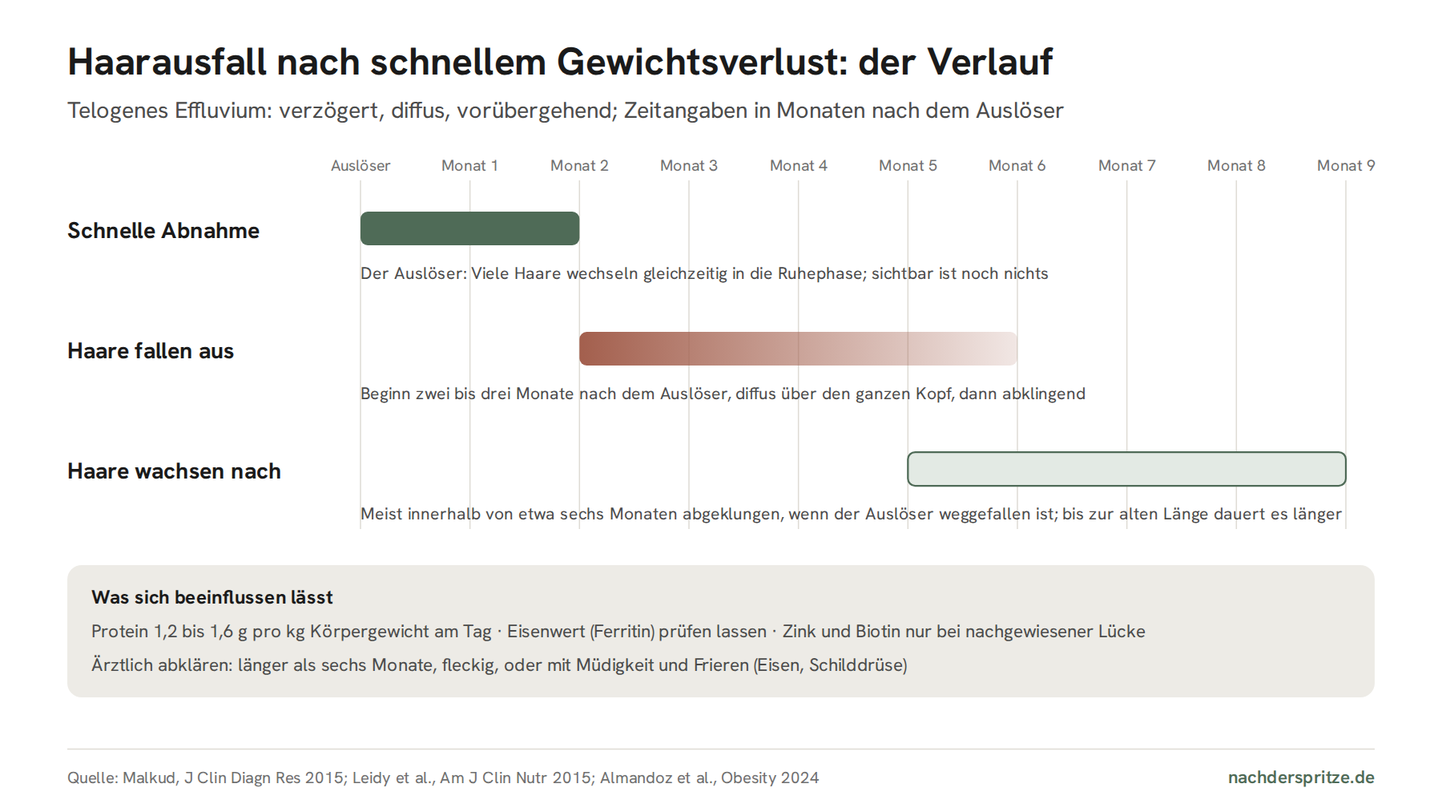
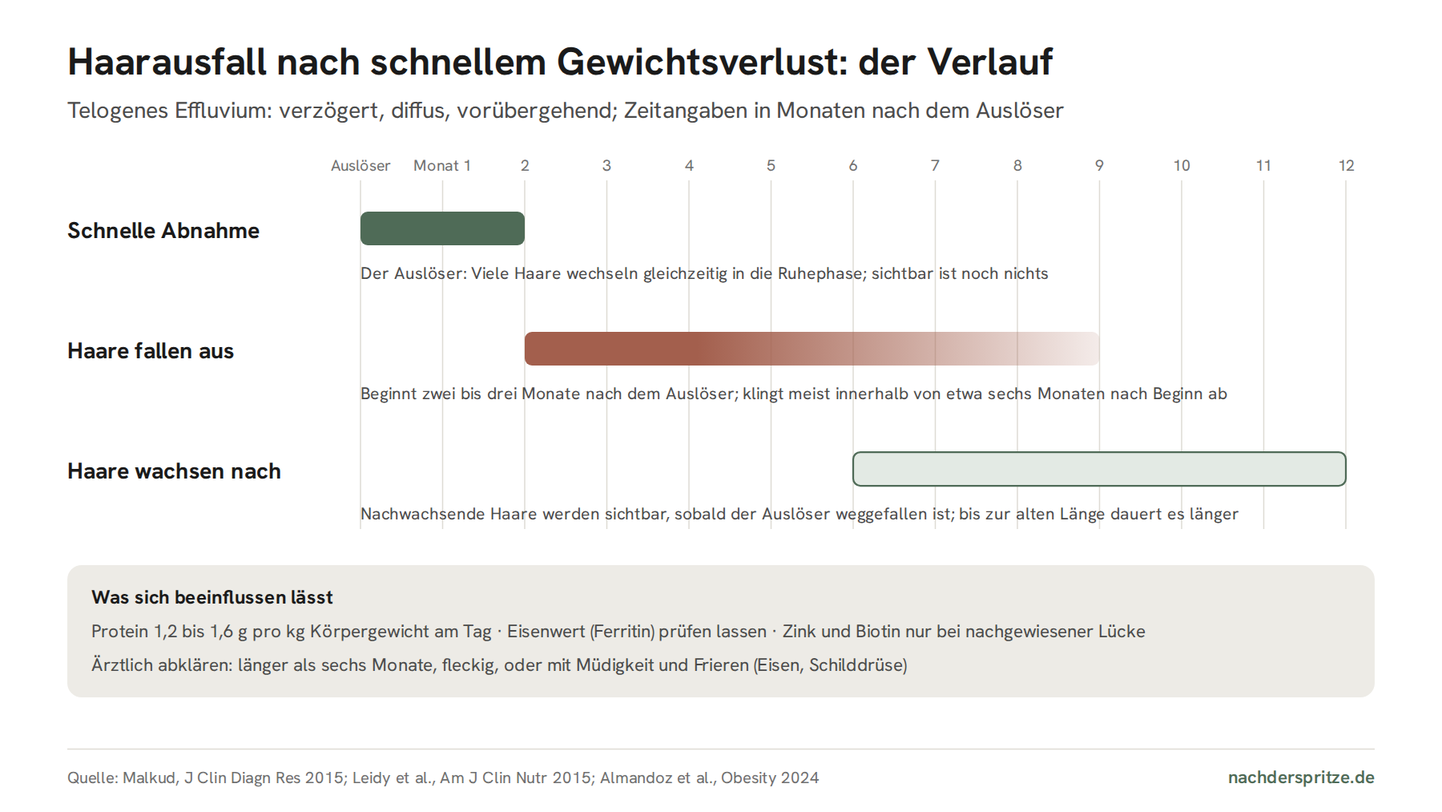
Grafiken: Zweitprüfung eingearbeitet, S-LiTE als Differenz mit Konfidenzintervall, Protein 25–30 g, updatedDate, CLAIMS C33
- S-LiTE: Mehr-Zunahme nach Liraglutid allein als Differenz mit 95-%-KI (6,0 kg, 2,1–10,0; 2,5 kg, −1,5–6,5 nicht signifikant), kein Nullbalken, neutraler Titel
- Halbwertszeiten: Semaglutid weitgehend abgebaut nach etwa 5 Wochen, laut Fachinformation bis etwa 7 Wochen nachweisbar; Dativ „Tagen“
- Warum: Appetitbremse je Wirkstoff, „feste Mahlzeiten“ gestrichen, Krafttraining und Protein mit Jensen 2024, Sardeli 2018, Leidy 2015
- Körperzusammensetzung: kein Muskel-Übertrag, Sardeli 2018 und WHO 2020 als Quelle
- Protein: „mindestens etwa 25 bis 30 g pro Mahlzeit“ laut Leidy 2015, auch in Protein-, Ernährungs-, Muskelabbau- und Jojo-Artikel
- Haarausfall: zwölf Monate, Abklingen innerhalb von etwa sechs Monaten nach Beginn wie im Artikel
- Abnehmpille: Minuszeichen an den OASIS-4-Säulen, „Noch keine Studie“, Wu 2025 als Studien zu Adipositas-Medikamenten
- Zeitachse: Kontrolltermin ohne „Empfehlung im Artikel“
- Jojo-Artikel: vier Mechanismen wie in der Grafik; /grafiken/ ohne „nichts aus Pressemeldungen“; Preis-Alt-Text aus preise.json
- updatedDate 2026-10-01 für die Artikel mit neuen Grafiken; CLAIMS C33

Claude-Session: https://claude.ai/code/session_0178pHVfb1cCfA1AZ33sZoMM

diff --git a/src/data/grafiken.ts b/src/data/grafiken.ts
@@ -4,6 +4,11 @@
  * src/data/sources.ts; `sources` nennt die IDs. Alternativen (gleiche Daten, andere Form) hängen über `variantOf`
  * am Haupteintrag und werden auf der Seite als Varianten angeboten.
  */
+import { preise, fmtDate } from './markt';
+
+/** Präparate, die laut preise.json bei Typ-2-Diabetes Kassenleistung sind (für den Alt-Text der Preisgrafik) */
+const kassenPraeparate = preise.zeilen.filter((z) => /Kassenleistung/.test(z.hinweis)).map((z) => z.praeparat.split(',')[0]);
+
 export interface Grafik {
   /** Dateiname ohne Endung; SVG und PNG liegen unter /grafiken/<id>.svg bzw. .png */
   id: string;
@@ -72,15 +77,15 @@ export const grafiken: Grafik[] = [
     id: 'koerperzusammensetzung-step-1',
     title: 'Was beim Abnehmen mit Semaglutid verloren geht',
     subtitle: 'Anteil von Fettmasse und fettfreier Masse am Gewichtsverlust, STEP-1-Substudie mit DXA-Messung',
-    alt: 'Balken, der den Gewichtsverlust unter Semaglutid aufteilt: rund 60 Prozent Fettmasse und rund 40 Prozent fettfreie Masse, also Muskeln, Organe, Knochen und Wasser. Krafttraining und 1,2 bis 1,6 Gramm Protein pro Kilogramm halten den Anteil klein.',
-    sources: ['wilding2021dxa', 'who2020', 'leidy2015'],
+    alt: 'Balken, der den Gewichtsverlust unter Semaglutid aufteilt: rund 60 Prozent Fettmasse und rund 40 Prozent fettfreie Masse, also Muskeln, Organe, Knochen und Wasser; wie viel davon Muskel war, wurde nicht getrennt gemessen. Krafttraining an mindestens zwei Tagen pro Woche und 1,2 bis 1,6 Gramm Protein pro Kilogramm am Tag halten den Anteil in Studien klein.',
+    sources: ['wilding2021dxa', 'sardeli2018', 'leidy2015', 'who2020'],
     used: [{ href: '/wissen/muskelabbau-abnehmspritze/', label: 'Muskelabbau bei der Abnehmspritze' }],
   },
   {
     id: 'training-s-lite',
-    title: 'Training entscheidet, was nach dem Absetzen bleibt',
-    subtitle: 'S-LiTE-Nachbeobachtung: Zunahme ein Jahr nach Therapieende, Unterschied zur Trainingsgruppe',
-    alt: 'Balkendiagramm aus der S-LiTE-Nachbeobachtung: Teilnehmende mit Trainingsprogramm hielten ein Jahr nach Therapieende Gewicht und Körperzusammensetzung. Nach Liraglutid allein lag die Zunahme 6,0 Kilogramm höher als nach Training.',
+    title: 'Training vor dem Absetzen: 6 kg Unterschied ein Jahr später',
+    subtitle: 'S-LiTE-Nachbeobachtung: Gewichtszunahme im Jahr nach Therapieende, Liraglutid allein gegenüber den Trainingsgruppen, mit 95-%-Konfidenzintervall',
+    alt: 'Balkendiagramm aus der S-LiTE-Nachbeobachtung: Im Jahr nach Therapieende nahmen Teilnehmende nach Liraglutid allein 6,0 Kilogramm mehr zu als nach dem Trainingsprogramm (95-Prozent-Konfidenzintervall 2,1 bis 10,0) und 2,5 Kilogramm mehr als nach Training plus Liraglutid (−1,5 bis 6,5, nicht signifikant). Nach Training plus Liraglutid blieben Gewichtsverlust und Fettabbau erhalten.',
     sources: ['jensen2024'],
     used: [
       { href: '/wissen/krafttraining-nach-abnehmspritze/', label: 'Krafttraining nach der Abnehmspritze' },
@@ -111,7 +116,7 @@ export const grafiken: Grafik[] = [
     id: 'halbwertszeiten-praeparate',
     title: 'Wie lange die Abnehmspritze nach der letzten Dosis nachwirkt',
     subtitle: 'Halbwertszeit laut Fachinformation und die Zeit bis zum weitgehenden Abbau, drei Wirkstoffe',
-    alt: 'Balkendiagramm der Halbwertszeiten: Semaglutid etwa eine Woche, weitgehend abgebaut nach etwa fünf Wochen; Tirzepatid etwa fünf Tage, abgebaut nach etwa 25 Tagen; Liraglutid etwa 13 Stunden, abgebaut nach etwa drei Tagen. Faustregel: fünf Halbwertszeiten.',
+    alt: 'Balkendiagramm der Halbwertszeiten: Semaglutid etwa eine Woche, weitgehend abgebaut nach etwa fünf Wochen und laut Fachinformation bis etwa sieben Wochen nachweisbar; Tirzepatid etwa fünf Tage, abgebaut nach etwa 25 Tagen; Liraglutid etwa 13 Stunden, abgebaut nach etwa drei Tagen. Faustregel: fünf Halbwertszeiten.',
     sources: ['fachinfoWegovy', 'fachinfoOzempic', 'fachinfoRybelsus', 'fachinfoMounjaro', 'fachinfoSaxenda'],
     used: [
       { href: '/wissen/abnehmpille-oder-spritze/', label: 'Abnehmpille oder Spritze' },
@@ -122,15 +127,15 @@ export const grafiken: Grafik[] = [
     id: 'warum-das-gewicht-zurueckkommt',
     title: 'Warum das Gewicht nach dem Absetzen zurückkommt',
     subtitle: 'Vier belegte Mechanismen hinter dem Jojo-Effekt nach der Abnehmspritze',
-    alt: 'Vier Karten mit den Mechanismen des Jojo-Effekts nach der Abnehmspritze: Die Appetitbremse fällt nach fünf bis sieben Wochen weg; die Hungerhormone Ghrelin und Leptin bleiben noch ein Jahr nach einer Diät verschoben; der Ruheenergieverbrauch blieb in einer Studie sechs Jahre nach starkem Gewichtsverlust abgesenkt; rund 40 Prozent des Gewichtsverlusts unter Semaglutid entfielen auf fettfreie Masse.',
-    sources: ['fachinfoWegovy', 'sumithran2011', 'fothergill2016', 'wilding2021dxa'],
+    alt: 'Vier Karten mit den Mechanismen des Jojo-Effekts nach der Abnehmspritze: Die Appetitbremse fällt weg, sobald der Wirkstoff abgebaut ist (Semaglutid nach etwa fünf bis sieben Wochen, Tirzepatid nach etwa 25 Tagen); die Hungerhormone Ghrelin und Leptin bleiben noch ein Jahr nach einer Diät verschoben; der Ruheenergieverbrauch blieb in einer Studie sechs Jahre nach starkem Gewichtsverlust abgesenkt; rund 40 Prozent des Gewichtsverlusts unter Semaglutid entfielen auf fettfreie Masse. Dagegen belegt: Krafttraining und Protein.',
+    sources: ['fachinfoWegovy', 'fachinfoMounjaro', 'sumithran2011', 'fothergill2016', 'wilding2021dxa', 'jensen2024', 'sardeli2018', 'leidy2015'],
     used: [{ href: '/wissen/jojo-effekt-abnehmspritze/', label: 'Jojo-Effekt nach der Abnehmspritze' }],
   },
   {
     id: 'proteinbedarf-nach-abnehmspritze',
     title: 'Wie viel Protein nach der Abnehmspritze',
     subtitle: 'Tagesmenge nach Körpergewicht im Zielkorridor von 1,2 bis 1,6 g pro kg',
-    alt: 'Balkendiagramm des Proteinbedarfs von 1,2 bis 1,6 Gramm pro Kilogramm Körpergewicht: bei 60 Kilogramm 72 bis 96 Gramm am Tag, bei 70 Kilogramm 84 bis 112, bei 80 Kilogramm 96 bis 128, bei 90 Kilogramm 108 bis 144, bei 100 Kilogramm 120 bis 160 Gramm. Verteilt auf drei bis vier Mahlzeiten sind das 25 bis 35 Gramm pro Mahlzeit.',
+    alt: 'Balkendiagramm des Proteinbedarfs von 1,2 bis 1,6 Gramm pro Kilogramm Körpergewicht: bei 60 Kilogramm 72 bis 96 Gramm am Tag, bei 70 Kilogramm 84 bis 112, bei 80 Kilogramm 96 bis 128, bei 90 Kilogramm 108 bis 144, bei 100 Kilogramm 120 bis 160 Gramm. Verteilt auf drei bis vier Mahlzeiten mit mindestens etwa 25 bis 30 Gramm pro Mahlzeit.',
     sources: ['leidy2015'],
     used: [
       { href: '/wissen/protein-abnehmspritze/', label: 'Protein bei der Abnehmspritze' },
@@ -141,7 +146,7 @@ export const grafiken: Grafik[] = [
     id: 'haarausfall-zeitverlauf',
     title: 'Haarausfall nach schnellem Gewichtsverlust: der typische Verlauf',
     subtitle: 'Telogenes Effluvium in Monaten nach dem Auslöser, mit dem, was sich beeinflussen lässt',
-    alt: 'Zeitachse des telogenen Effluviums: Nach schnellem Gewichtsverlust wechseln viele Haare in die Ruhephase, zwei bis drei Monate später beginnt diffuser Haarausfall, der in der Regel innerhalb von etwa sechs Monaten abklingt; danach wachsen die Haare nach. Beeinflussbar sind Protein, Eisenwert, Zink und Biotin bei Lücke; länger als sechs Monate, fleckig oder mit Müdigkeit ärztlich abklären.',
+    alt: 'Zeitachse des telogenen Effluviums über zwölf Monate: Nach schnellem Gewichtsverlust wechseln viele Haare in die Ruhephase, zwei bis drei Monate später beginnt diffuser Haarausfall, der meist innerhalb von etwa sechs Monaten nach Beginn abklingt, wenn der Auslöser weggefallen ist; danach wachsen die Haare nach. Beeinflussbar sind Protein, Eisenwert, Zink und Biotin bei Lücke; länger als sechs Monate, fleckig oder mit Müdigkeit und Frieren ärztlich abklären.',
     sources: ['malkud2015', 'leidy2015', 'almandoz2024'],
     used: [{ href: '/wissen/haarausfall-abnehmspritze/', label: 'Haarausfall bei der Abnehmspritze' }],
   },
@@ -149,15 +154,15 @@ export const grafiken: Grafik[] = [
     id: 'abnehmpille-belegt-und-offen',
     title: 'Abnehmpille absetzen: was belegt ist und was fehlt',
     subtitle: 'Die Zulassungsstudie OASIS 4 der Semaglutid-Tablette gegenüber der Datenlage für die Zeit nach dem Absetzen',
-    alt: 'Zwei Felder: Links die Zulassungsstudie OASIS 4 der Semaglutid-Tablette mit minus 13,6 Prozent Gewicht gegenüber minus 2,2 Prozent unter Placebo nach 64 Wochen, bei durchgehender Einnahme minus 16,6 Prozent. Rechts der offene Punkt: Es gibt keine Studie zur Wiederzunahme nach dem Absetzen der Tablette; übertragbar mit Vorbehalt sind die Halbwertszeit von etwa einer Woche und die Spritzen-Daten, nach denen zwei Drittel des Verlusts nach einem Jahr zurück sind.',
+    alt: 'Zwei Felder: Links die Zulassungsstudie OASIS 4 der Semaglutid-Tablette mit minus 13,6 Prozent Gewicht gegenüber minus 2,2 Prozent unter Placebo nach 64 Wochen, bei durchgehender Einnahme minus 16,6 Prozent. Rechts der offene Punkt: Es gibt noch keine Studie zur Wiederzunahme nach dem Absetzen der Tablette (Stand Oktober 2026); übertragbar mit Vorbehalt sind die Halbwertszeit von etwa einer Woche und die Spritzen-Daten, nach denen zwei Drittel des Verlusts nach einem Jahr zurück sind.',
     sources: ['wharton2025oasis4', 'fachinfoRybelsus', 'wilding2022ext', 'wu2025'],
     used: [{ href: '/wissen/abnehmpille-absetzen/', label: 'Abnehmpille absetzen' }],
   },
   {
     id: 'preise-im-monat',
     title: 'Was Abnehmspritzen und die Tablette im Monat kosten',
-    subtitle: 'Apothekenverkaufspreise für Selbstzahler als Größenordnung, Stand aus der monatlichen Erhebung im Marktradar',
-    alt: 'Balkendiagramm der monatlichen Selbstzahlerpreise für Abnehmspritzen und die Abnehmtablette als Größenordnung, gerundet auf 5 Euro, mit Stand der Erhebung; Zeilen laut Marktradar.',
+    subtitle: `Apothekenverkaufspreise für Selbstzahler als Größenordnung, Stand ${fmtDate(preise.stand)}, aus der monatlichen Erhebung im Marktradar`,
+    alt: `Balkendiagramm der monatlichen Selbstzahlerpreise für Abnehmspritzen und die Abnehmtablette als Größenordnung, gerundet auf 5 Euro, Stand ${fmtDate(preise.stand)}: ${preise.zeilen.map((z) => `${z.praeparat} ${z.monat}`).join('; ')}.${kassenPraeparate.length ? ` ${kassenPraeparate.join(', ')} bei Typ-2-Diabetes Kassenleistung.` : ''}`,
     sources: ['medipreis2026', 'tabletteApotheken2026'],
     used: [{ href: '/marktradar/#preise', label: 'Marktradar: Preise' }],
     monatlich: true,

diff --git a/src/content/wissen/protein-abnehmspritze.md b/src/content/wissen/protein-abnehmspritze.md
@@ -6,6 +6,7 @@ category: "Ernährung"
 image: /grafiken/proteinbedarf-nach-abnehmspritze.png
 order: 4
 pubDate: 2026-09-30
+updatedDate: 2026-10-01
 keywords: ["abnehmspritze protein", "abnehmspritze protein wie viel", "eiweiß abnehmspritze", "wegovy protein", "ozempic eiweiß wie viel", "proteinshake abnehmspritze", "abnehmspritze ernährung eiweiß"]
 sources: ["dgeProtein", "leidy2015", "wilding2021dxa", "euClaims", "sardeli2018", "dgeBallaststoffe"]
 related: ["ernaehrung-nach-abnehmspritze", "supplements-nach-abnehmspritze", "muskelabbau-abnehmspritze"]
@@ -19,7 +20,7 @@ faq:
   - q: "Molke oder pflanzliches Protein – was ist besser?"
     a: "<p>Molkenprotein (Whey) wird schnell aufgenommen und enthält viel Leucin, die Aminosäure, die den Muskelaufbau anstößt. Pflanzliche Mischungen (z. B. Erbse plus Reis) kommen nahe heran, wenn die Portion etwas größer ist. Für den Alltag zählt vor allem, dass du es regelmäßig trinkst.</p>"
   - q: "Wann sollte ich das Protein essen?"
-    a: "<p>Verteilt über den Tag, 25 bis 35 g pro Mahlzeit, drei- bis viermal. Der Körper nutzt Protein besser in mehreren Portionen als in einer großen. Nach dem Krafttraining ist eine proteinreiche Mahlzeit sinnvoll, der genaue Zeitpunkt ist aber weniger wichtig als die Tagesmenge.</p>"
+    a: "<p>Verteilt über den Tag, mindestens etwa 25 bis 30 g pro Mahlzeit, drei- bis viermal. Der Körper nutzt Protein besser in mehreren Portionen als in einer großen. Nach dem Krafttraining ist eine proteinreiche Mahlzeit sinnvoll, der genaue Zeitpunkt ist aber weniger wichtig als die Tagesmenge.</p>"
 affiliate: ["wheyNeutral", "wheyEsn", "wheyIsolate"]
 affiliateTitle: "Beispiele für Proteinpulver mit mindestens 20 g Protein pro Portion"
 affiliateIntro: "Drei Beispiele, keine Empfehlung einer Marke. Worauf du achtest, steht oben: mindestens 20 g Protein pro Portion, wenig Zucker, bei empfindlichem Magen neutral oder Isolat."
@@ -27,7 +28,7 @@ affiliateIntro: "Drei Beispiele, keine Empfehlung einer Marke. Worauf du achtest
 
 Unter der Abnehmspritze essen viele so wenig, dass sie nicht einmal das Minimum an Protein erreichen. Das kostet Muskeln. Hier steht, wie viel Protein du brauchst, wo es drinsteckt, und wie du die Menge schaffst, wenn du kaum Hunger hast. Was nach der letzten Dosis mit Appetit und Gewicht passiert, steht unter [Abnehmspritze absetzen](/wissen/abnehmspritze-absetzen/).
 
-> **Kurz gesagt:** 1,2 bis 1,6 g Protein pro kg Körpergewicht und Tag.<sup><a href="#fn-leidy2015">2</a></sup> Verteilt auf drei bis vier Mahlzeiten, jeweils 25 bis 35 g, Protein immer zuerst.
+> **Kurz gesagt:** 1,2 bis 1,6 g Protein pro kg Körpergewicht und Tag.<sup><a href="#fn-leidy2015">2</a></sup> Verteilt auf drei bis vier Mahlzeiten mit mindestens etwa 25 bis 30 g, Protein immer zuerst.
 
 ## Wie viel Protein beim Abnehmen?
 
@@ -51,7 +52,7 @@ Bei starkem Übergewicht (BMI über 35) rechnen viele Fachleute mit dem Zielgewi
 **Ausnahme Nierenerkrankung:** Dann legt die Ärztin oder der Arzt die Proteinmenge fest. Bei gesunden Nieren gibt es für diese Mengen keine Hinweise auf Schäden.
 
 <figure class="my-8">
-  <img src="/grafiken/proteinbedarf-nach-abnehmspritze.png" alt="Balkendiagramm des Proteinbedarfs von 1,2 bis 1,6 Gramm pro Kilogramm Körpergewicht: bei 60 Kilogramm 72 bis 96 Gramm am Tag, bei 70 Kilogramm 84 bis 112, bei 80 Kilogramm 96 bis 128, bei 90 Kilogramm 108 bis 144, bei 100 Kilogramm 120 bis 160 Gramm. Verteilt auf drei bis vier Mahlzeiten sind das 25 bis 35 Gramm pro Mahlzeit." width="1200" height="675" loading="lazy" class="w-full rounded-xl2 border border-line bg-white" />
+  <img src="/grafiken/proteinbedarf-nach-abnehmspritze.png" alt="Balkendiagramm des Proteinbedarfs von 1,2 bis 1,6 Gramm pro Kilogramm Körpergewicht: bei 60 Kilogramm 72 bis 96 Gramm am Tag, bei 70 Kilogramm 84 bis 112, bei 80 Kilogramm 96 bis 128, bei 90 Kilogramm 108 bis 144, bei 100 Kilogramm 120 bis 160 Gramm. Verteilt auf drei bis vier Mahlzeiten mit mindestens etwa 25 bis 30 Gramm pro Mahlzeit." width="1200" height="675" loading="lazy" class="w-full rounded-xl2 border border-line bg-white" />
   <figcaption class="mt-2 text-sm text-ink-3">Tagesmenge nach Körpergewicht im Zielkorridor von 1,2 bis 1,6 g pro kg.<sup><a href="#fn-leidy2015">2</a></sup> Grafik: Nach der Spritze, frei verwendbar mit Quellenangabe.</figcaption>
 </figure>
 

diff --git a/src/content/wissen/jojo-effekt-abnehmspritze.md b/src/content/wissen/jojo-effekt-abnehmspritze.md
@@ -6,6 +6,7 @@ category: "Gewicht halten"
 image: /grafiken/warum-das-gewicht-zurueckkommt.png
 order: 1
 pubDate: 2026-09-30
+updatedDate: 2026-10-01
 keywords: ["jojo effekt abnehmspritze", "abnehmspritze jojo effekt", "wegovy jojo effekt", "ozempic jojo effekt", "mounjaro jojo effekt", "abnehmspritze zunehmen danach", "jojo effekt abnehmspritze vermeiden"]
 sources: ["wilding2022ext", "rubino2021", "aronne2024", "wu2025", "eclinmed2026", "sumithran2011", "fothergill2016", "wilding2021dxa", "rodriguez2025", "jensen2024", "leidy2015", "sardeli2018", "who2020", "dagLeitlinie"]
 related: ["abnehmspritze-absetzen", "muskelabbau-abnehmspritze", "gewicht-halten-nach-abnehmspritze"]
@@ -59,11 +60,11 @@ Wichtig für die Einordnung: Auch nach dem Regain lagen die Teilnehmenden im Mit
 ## Warum der Körper nach dem Absetzen gegen dich arbeitet
 
 <figure class="my-8">
-  <img src="/grafiken/warum-das-gewicht-zurueckkommt.png" alt="Vier Karten mit den Mechanismen des Jojo-Effekts nach der Abnehmspritze: Die Appetitbremse fällt nach fünf bis sieben Wochen weg; die Hungerhormone Ghrelin und Leptin bleiben noch ein Jahr nach einer Diät verschoben; der Ruheenergieverbrauch blieb in einer Studie sechs Jahre nach starkem Gewichtsverlust abgesenkt; rund 40 Prozent des Gewichtsverlusts unter Semaglutid entfielen auf fettfreie Masse." width="1200" height="675" loading="lazy" class="w-full rounded-xl2 border border-line bg-white" />
+  <img src="/grafiken/warum-das-gewicht-zurueckkommt.png" alt="Vier Karten mit den Mechanismen des Jojo-Effekts nach der Abnehmspritze: Die Appetitbremse fällt weg, sobald der Wirkstoff abgebaut ist (Semaglutid nach etwa fünf bis sieben Wochen, Tirzepatid nach etwa 25 Tagen); die Hungerhormone Ghrelin und Leptin bleiben noch ein Jahr nach einer Diät verschoben; der Ruheenergieverbrauch blieb in einer Studie sechs Jahre nach starkem Gewichtsverlust abgesenkt; rund 40 Prozent des Gewichtsverlusts unter Semaglutid entfielen auf fettfreie Masse. Dagegen belegt: Krafttraining und Protein." width="1200" height="675" loading="lazy" class="w-full rounded-xl2 border border-line bg-white" />
   <figcaption class="mt-2 text-sm text-ink-3">Vier belegte Mechanismen hinter dem Jojo-Effekt; die Quellen stehen in den Abschnitten darunter. Grafik: Nach der Spritze, frei verwendbar mit Quellenangabe.</figcaption>
 </figure>
 
-Drei Mechanismen greifen ineinander:
+Vier Mechanismen greifen ineinander. Der erste ist offensichtlich: Die Appetitbremse fällt weg, sobald der Wirkstoff abgebaut ist; wie lange das je nach Präparat dauert, steht unter [Abnehmspritze absetzen](/wissen/abnehmspritze-absetzen/). Die drei anderen sind weniger bekannt:
 
 **1. Der Appetit kommt zurück – und zwar stärker als vorher.** Nach starkem Gewichtsverlust verschiebt der Körper seine Hormone: Das Hungerhormon Ghrelin steigt, Sättigungshormone wie Leptin sinken. Diese Veränderungen waren in einer Studie ein Jahr nach der Diät noch messbar.<sup><a href="#fn-sumithran2011">6</a></sup> Unter der Spritze fällt das nicht auf. Danach schon.
 
@@ -83,7 +84,7 @@ Die klarste Evidenz kommt aus Dänemark. In der S-LiTE-Studie nahmen Erwachsene 
 
 ### Protein: genug, verteilt, zuerst
 
-Übersichtsarbeiten empfehlen während Gewichtsabnahme und -erhalt 1,2 bis 1,6 g Protein pro kg Körpergewicht und Tag.<sup><a href="#fn-leidy2015">11</a></sup> Für eine Person mit 80 kg sind das 96 bis 128 g – etwa das Doppelte dessen, was viele unter der Spritze essen. Praktisch heißt das: 25 bis 35 g Protein pro Mahlzeit, und bei jeder Mahlzeit das Protein zuerst. Wie das geht, steht im Artikel [Protein bei der Abnehmspritze: Wie viel?](/wissen/protein-abnehmspritze/).
+Übersichtsarbeiten empfehlen während Gewichtsabnahme und -erhalt 1,2 bis 1,6 g Protein pro kg Körpergewicht und Tag.<sup><a href="#fn-leidy2015">11</a></sup> Für eine Person mit 80 kg sind das 96 bis 128 g – etwa das Doppelte dessen, was viele unter der Spritze essen. Praktisch heißt das: mindestens etwa 25 bis 30 g Protein pro Mahlzeit, und bei jeder Mahlzeit das Protein zuerst. Wie das geht, steht im Artikel [Protein bei der Abnehmspritze: Wie viel?](/wissen/protein-abnehmspritze/).
 
 ### Struktur statt Willenskraft
 

diff --git a/CLAIMS.md b/CLAIMS.md
@@ -58,6 +58,7 @@ Status: ✅ zugelassen und Bedingung erfüllt · ⚠ prüfen (Michi / ggf. An
 | C30 | Glucomannan-Artikel: Wortlaut und Bedingungen der zugelassenen Angabe (1 g/Portion, 3 g/Tag, Wasser, kalorienarme Ernährung, Erstickungswarnung); EFSA 2010 „kleine Unterschiede zu Placebo“ ohne eigene Zahl; STEP 1 −14,9 % vs −2,4 % (n = 1.961) als Gegenüberstellung, ausdrücklich kein Vergleich; „ersetzt keine Spritze“; Rezeptur des Sticks offen (wie Glossar) | /wissen/glucomannan-abnehmspritze/ | euClaims, efsa2010glucomannan, dgeBallaststoffe, almandoz2024, wilding2021step1, wilding2022ext, bls, leidy2015 | ✅ |
 | C31 | Gesicht-Artikel: „Ozempic Face“ als Medienbegriff, Folge des Fettverlusts, „nach allem, was bekannt ist“ keine Hautwirkung des Wirkstoffs; STEP 1 −14,9 %; 40 % fettfreie Masse; EU-Angaben Vitamin C (Kollagenbildung/Haut), Zink und Biotin (Haut); DGE Vitamin C 95/110 mg; Proksch 2014 als „Hinweis, kein Beleg“, herstellerfinanziert, keine EU-Angabe für Kollagen; ästhetische Verfahren ausdrücklich nicht bewertet; Tempo der Abnahme nur an die Ärztin verwiesen; Set enthält kein Kollagen, kein Vitamin C | /wissen/abnehmspritze-gesicht/ | wilding2021step1, wilding2021dxa, leidy2015, who2020, euClaims, dgeReferenzwerte, bls, proksch2014, wilding2022ext | ⚠ Grenzfall Nebenwirkungsthema; als Folge des Gewichtsverlusts gerahmt |
 | C32 | Haarausfall-Artikel: telogenes Effluvium (Beginn 2–3 Monate nach Auslöser, Abklingen in etwa 6 Monaten); „in Einzelfällen wird Haarausfall unter der Abnehmspritze berichtet“ ohne Häufigkeit und ohne Fachinfo-Zitat (Dominik 01.10.), keine Bewertung, keine Pausen-/Absetzempfehlung; EU-Angaben Zink, Biotin, Selen (Erhaltung normaler Haare), keine Angabe zu Haarwachstum; DGE Zink 7–10/11–16 mg, Biotin 40 µg; BfR Zink 6,5 mg; Biotin verfälscht Laborwerte (allgemeiner Hinweis ohne Zahl); NVS II 58 % Frauen unter Eisenreferenz; Set „kein Mittel gegen Haarausfall“ | /wissen/haarausfall-abnehmspritze/ | malkud2015, leidy2015, euClaims, dgeReferenzwerte, almandoz2024, nvs2, bfrHoechstmengen2021, bls | ✅ |
+| C33 | Grafiken (/grafiken/, 15 Diagramme): jede Zahl aus sources.ts bzw. preise.json, Quelle und Domain im Bild, Alt-Text nennt jede Zahl. Nach Zweitprüfung 01.10.2026 angepasst: S-LiTE als Differenz mit 95-%-KI (+6,0 kg, 2,1–10,0 gegenüber Training allein; +2,5 kg, −1,5–6,5 gegenüber Training plus Liraglutid, nicht signifikant), kein Nullbalken; Protein „mindestens etwa 25–30 g pro Mahlzeit“ laut Leidy 2015 (ersetzt „25–35 g“ in Protein-, Ernährungs- und Jojo-Artikel); Semaglutid „weitgehend abgebaut nach etwa 5 Wochen, laut Fachinformation bis etwa 7 Wochen nachweisbar“; Zunahme ab Woche 8 „in Studien zu Adipositas-Medikamenten“ (Wu 2025 umfasst auch orale Wirkstoffe); Körperzusammensetzung ohne Muskel-Übertrag, Krafttraining mit Sardeli 2018/WHO 2020; Haarausfall „innerhalb von etwa sechs Monaten nach Beginn“; Tablette „noch keine Studie zur Wiederzunahme, Stand Oktober 2026“; Wirksamkeitsgrafik mit „kein direkter Vergleich“; Preisgrafik aus preise.json mit Stand-Datum, Tablette laut Presse zum Marktstart; keine Grafik mit Markennamen auf der Startseite; Lizenz CC BY 4.0 (Dominik) | /grafiken/, Artikel, Startseite, Marktradar | wilding2022ext, wilding2021dxa, jensen2024, sardeli2018, leidy2015, who2020, fachinfoWegovy, fachinfoOzempic, fachinfoRybelsus, fachinfoMounjaro, fachinfoSaxenda, wu2025, rubino2021, aronne2024, wilding2021step1, wharton2025oasis4, knop2023oasis1, jastreboff2022, pisunyer2015, sumithran2011, fothergill2016, malkud2015, almandoz2024, medipreis2026, tabletteApotheken2026 | ✅ |
 
 ## D. Grenzfälle, bewusst so formuliert – bitte prüfen
 

diff --git a/src/content/wissen/muskelabbau-abnehmspritze.md b/src/content/wissen/muskelabbau-abnehmspritze.md
@@ -6,6 +6,7 @@ category: "Muskeln"
 image: /grafiken/koerperzusammensetzung-step-1.png
 order: 3
 pubDate: 2026-09-30
+updatedDate: 2026-10-01
 keywords: ["abnehmspritze muskelabbau", "abnehmspritze muskelverlust", "muskelabbau abnehmspritze vermeiden", "wegovy muskelabbau", "ozempic muskelabbau", "mounjaro muskelverlust", "abnehmspritze krafttraining"]
 sources: ["wilding2021dxa", "sardeli2018", "leidy2015", "who2020", "jensen2024", "euClaims", "kreider2017", "dgeProtein", "fothergill2016"]
 related: ["protein-abnehmspritze", "kreatin-abnehmspritze", "gewicht-halten-nach-abnehmspritze"]
@@ -33,7 +34,7 @@ Bei jedem Gewichtsverlust verliert der Körper neben Fett auch fettfreie Masse: 
 Zwei Dinge relativieren das. Erstens: Wer 15 % seines Gewichts verliert, hat danach meist immer noch mehr absolute Muskelmasse als eine normalgewichtige Person, weil ein schwererer Körper mehr Muskeln braucht und aufbaut. Zweitens: Ein Teil der „fettfreien Masse“ ist Wasser und Gewebe, das mit dem Fett abgebaut wird. Trotzdem gilt: Muskeln, die weg sind, kommen nicht von allein zurück, und nach dem Absetzen kommt das Gewicht meist als Fett zurück.
 
 <figure class="my-8">
-  <img src="/grafiken/koerperzusammensetzung-step-1.png" alt="Balken, der den Gewichtsverlust unter Semaglutid aufteilt: rund 60 Prozent Fettmasse und rund 40 Prozent fettfreie Masse, also Muskeln, Organe, Knochen und Wasser. Krafttraining und 1,2 bis 1,6 Gramm Protein pro Kilogramm halten den Anteil klein." width="1200" height="675" loading="lazy" class="w-full rounded-xl2 border border-line bg-white" />
+  <img src="/grafiken/koerperzusammensetzung-step-1.png" alt="Balken, der den Gewichtsverlust unter Semaglutid aufteilt: rund 60 Prozent Fettmasse und rund 40 Prozent fettfreie Masse, also Muskeln, Organe, Knochen und Wasser; wie viel davon Muskel war, wurde nicht getrennt gemessen. Krafttraining an mindestens zwei Tagen pro Woche und 1,2 bis 1,6 Gramm Protein pro Kilogramm am Tag halten den Anteil in Studien klein." width="1200" height="675" loading="lazy" class="w-full rounded-xl2 border border-line bg-white" />
   <figcaption class="mt-2 text-sm text-ink-3">Anteil am Gewichtsverlust nach 68 Wochen Semaglutid, DXA-Substudie mit 140 Teilnehmenden.<sup><a href="#fn-wilding2021dxa">1</a></sup> Grafik: Nach der Spritze, frei verwendbar mit Quellenangabe.</figcaption>
 </figure>
 
@@ -74,7 +75,7 @@ Was das praktisch heißt:
 
 ### 2. Protein – 1,2 bis 1,6 g pro kg, verteilt
 
-Übersichtsarbeiten empfehlen während Gewichtsabnahme und -erhalt 1,2 bis 1,6 g Protein pro kg Körpergewicht und Tag.<sup><a href="#fn-leidy2015">3</a></sup> Protein trägt zur Erhaltung von Muskelmasse bei.<sup><a href="#fn-euClaims">6</a></sup> Wichtig ist die Verteilung: 25 bis 35 g pro Mahlzeit, drei- bis viermal am Tag, und bei jeder Mahlzeit das Protein zuerst – gerade, wenn der Appetit klein ist. Wie viel das für dein Gewicht ist und wie du es mit wenig Hunger schaffst, steht im Artikel [Protein bei der Abnehmspritze](/wissen/protein-abnehmspritze/).
+Übersichtsarbeiten empfehlen während Gewichtsabnahme und -erhalt 1,2 bis 1,6 g Protein pro kg Körpergewicht und Tag.<sup><a href="#fn-leidy2015">3</a></sup> Protein trägt zur Erhaltung von Muskelmasse bei.<sup><a href="#fn-euClaims">6</a></sup> Wichtig ist die Verteilung: mindestens etwa 25 bis 30 g pro Mahlzeit, drei- bis viermal am Tag, und bei jeder Mahlzeit das Protein zuerst – gerade, wenn der Appetit klein ist. Wie viel das für dein Gewicht ist und wie du es mit wenig Hunger schaffst, steht im Artikel [Protein bei der Abnehmspritze](/wissen/protein-abnehmspritze/).
 
 ### 3. Kreatin – als Ergänzung zum Training
 

diff --git a/src/content/wissen/ernaehrung-nach-abnehmspritze.md b/src/content/wissen/ernaehrung-nach-abnehmspritze.md
@@ -6,6 +6,7 @@ category: "Ernährung"
 image: /grafiken/proteinbedarf-nach-abnehmspritze.png
 order: 11
 pubDate: 2026-09-30
+updatedDate: 2026-10-01
 keywords: ["nach der abnehmspritze ernährung", "ernährung nach abnehmspritze", "abnehmspritze ernährung danach", "was essen nach abnehmspritze", "ernährungsplan nach abnehmspritze", "ernährung nach wegovy", "abnehmspritze ernährung umstellen"]
 sources: ["wu2025", "sumithran2011", "leidy2015", "almandoz2024", "dgeBallaststoffe", "dgeEmpfehlungen", "wilding2022ext", "jensen2024"]
 related: ["protein-abnehmspritze", "gewicht-halten-nach-abnehmspritze", "supplements-nach-abnehmspritze"]
@@ -40,10 +41,10 @@ Das Problem ist also nicht Wissen, sondern Struktur: Die Ernährung muss ohne di
 
 ### 1. Protein zuerst, bei jeder Mahlzeit
 
-Übersichtsarbeiten empfehlen während Gewichtsabnahme und -erhalt 1,2 bis 1,6 g Protein pro kg Körpergewicht und Tag.<sup><a href="#fn-leidy2015">3</a></sup> Verteilt auf drei bis vier Mahlzeiten sind das 25 bis 35 g pro Mahlzeit. Die Reihenfolge auf dem Teller entscheidet: erst die Proteinquelle, dann Gemüse, dann der Rest. Wenn die Sättigung kommt, ist das Wichtigste drin. Rechenhilfe und Lebensmitteltabelle im [Protein-Artikel](/wissen/protein-abnehmspritze/).
+Übersichtsarbeiten empfehlen während Gewichtsabnahme und -erhalt 1,2 bis 1,6 g Protein pro kg Körpergewicht und Tag.<sup><a href="#fn-leidy2015">3</a></sup> Verteilt auf drei bis vier Mahlzeiten mit mindestens etwa 25 bis 30 g pro Mahlzeit. Die Reihenfolge auf dem Teller entscheidet: erst die Proteinquelle, dann Gemüse, dann der Rest. Wenn die Sättigung kommt, ist das Wichtigste drin. Rechenhilfe und Lebensmitteltabelle im [Protein-Artikel](/wissen/protein-abnehmspritze/).
 
 <figure class="my-8">
-  <img src="/grafiken/proteinbedarf-nach-abnehmspritze.png" alt="Balkendiagramm des Proteinbedarfs von 1,2 bis 1,6 Gramm pro Kilogramm Körpergewicht: bei 60 Kilogramm 72 bis 96 Gramm am Tag, bei 70 Kilogramm 84 bis 112, bei 80 Kilogramm 96 bis 128, bei 90 Kilogramm 108 bis 144, bei 100 Kilogramm 120 bis 160 Gramm. Verteilt auf drei bis vier Mahlzeiten sind das 25 bis 35 Gramm pro Mahlzeit." width="1200" height="675" loading="lazy" class="w-full rounded-xl2 border border-line bg-white" />
+  <img src="/grafiken/proteinbedarf-nach-abnehmspritze.png" alt="Balkendiagramm des Proteinbedarfs von 1,2 bis 1,6 Gramm pro Kilogramm Körpergewicht: bei 60 Kilogramm 72 bis 96 Gramm am Tag, bei 70 Kilogramm 84 bis 112, bei 80 Kilogramm 96 bis 128, bei 90 Kilogramm 108 bis 144, bei 100 Kilogramm 120 bis 160 Gramm. Verteilt auf drei bis vier Mahlzeiten mit mindestens etwa 25 bis 30 Gramm pro Mahlzeit." width="1200" height="675" loading="lazy" class="w-full rounded-xl2 border border-line bg-white" />
   <figcaption class="mt-2 text-sm text-ink-3">Tagesmenge nach Körpergewicht, Zielkorridor aus Übersichtsarbeiten.<sup><a href="#fn-leidy2015">3</a></sup> Grafik: Nach der Spritze, frei verwendbar mit Quellenangabe.</figcaption>
 </figure>
 

diff --git a/src/content/wissen/abnehmpille-absetzen.md b/src/content/wissen/abnehmpille-absetzen.md
@@ -6,6 +6,7 @@ category: "Abnehmpille"
 image: /grafiken/abnehmpille-belegt-und-offen.png
 order: 16
 pubDate: 2026-09-30
+updatedDate: 2026-10-01
 keywords: ["abnehmpille absetzen", "wegovy tablette absetzen", "wegovy pille absetzen", "abnehmtablette absetzen", "semaglutid tablette absetzen", "abnehmpille jojo effekt", "abnehmpille muskelabbau", "wegovy tabletten absetzen"]
 sources: ["tabletteApotheken2026", "fachinfoRybelsus", "wilding2022ext", "wu2025", "ecWegovyTablette2026", "fdaOrforglipron2026", "fachinfoWegovy", "wharton2025oasis4", "wilding2021step1", "rubino2021", "knop2023oasis1", "wharton2025attain1", "rodriguez2025", "sumithran2011", "wilding2021dxa", "leidy2015", "who2020", "jensen2024"]
 related: ["abnehmpille-oder-spritze", "wegovy-absetzen", "abnehmspritze-absetzen"]
@@ -64,7 +65,7 @@ OASIS 4 hat untersucht, was die Tablette während der Einnahme bewirkt. Was nach
 **Was sich nicht übertragen lässt:** Wie viele Menschen die Tablette absetzen und wann, ist nicht untersucht. Für die Spritzen zeigen US-Versorgungsdaten, dass fast zwei Drittel der Menschen ohne Diabetes innerhalb eines Jahres aufhören.<sup><a href="#fn-rodriguez2025">13</a></sup> Ob eine tägliche Tablette häufiger vergessen, häufiger pausiert oder länger genommen wird, weiß niemand. Auch ob die Zunahme nach der Tablette im Mittel genauso groß ausfällt, ist eine Annahme, keine Messung.
 
 <figure class="my-8">
-  <img src="/grafiken/abnehmpille-belegt-und-offen.png" alt="Zwei Felder: Links die Zulassungsstudie OASIS 4 der Semaglutid-Tablette mit minus 13,6 Prozent Gewicht gegenüber minus 2,2 Prozent unter Placebo nach 64 Wochen, bei durchgehender Einnahme minus 16,6 Prozent. Rechts der offene Punkt: Es gibt keine Studie zur Wiederzunahme nach dem Absetzen der Tablette; übertragbar mit Vorbehalt sind die Halbwertszeit von etwa einer Woche und die Spritzen-Daten, nach denen zwei Drittel des Verlusts nach einem Jahr zurück sind." width="1200" height="675" loading="lazy" class="w-full rounded-xl2 border border-line bg-white" />
+  <img src="/grafiken/abnehmpille-belegt-und-offen.png" alt="Zwei Felder: Links die Zulassungsstudie OASIS 4 der Semaglutid-Tablette mit minus 13,6 Prozent Gewicht gegenüber minus 2,2 Prozent unter Placebo nach 64 Wochen, bei durchgehender Einnahme minus 16,6 Prozent. Rechts der offene Punkt: Es gibt noch keine Studie zur Wiederzunahme nach dem Absetzen der Tablette (Stand Oktober 2026); übertragbar mit Vorbehalt sind die Halbwertszeit von etwa einer Woche und die Spritzen-Daten, nach denen zwei Drittel des Verlusts nach einem Jahr zurück sind." width="1200" height="675" loading="lazy" class="w-full rounded-xl2 border border-line bg-white" />
   <figcaption class="mt-2 text-sm text-ink-3">Was für die Tablette belegt ist und was fehlt, Stand Oktober 2026. Grafik: Nach der Spritze, frei verwendbar mit Quellenangabe.</figcaption>
 </figure>
 

diff --git a/src/content/wissen/abnehmpille-oder-spritze.md b/src/content/wissen/abnehmpille-oder-spritze.md
@@ -6,6 +6,7 @@ category: "Abnehmpille"
 image: /grafiken/wirksamkeit-zulassungsstudien.png
 order: 17
 pubDate: 2026-09-30
+updatedDate: 2026-10-01
 keywords: ["abnehmpille oder spritze", "abnehmtablette oder spritze", "wegovy tablette oder spritze", "tablette statt abnehmspritze", "semaglutid tablette oder injektion", "abnehmpille wirksamkeit", "abnehmpille vergleich"]
 sources: ["tabletteApotheken2026", "wharton2025oasis4", "wilding2021step1", "fachinfoWegovy", "ecWegovyTablette2026", "fachinfoRybelsus", "fachinfoOzempic", "fachinfoMounjaro", "fachinfoSaxenda", "fdaOrforglipron2026", "knop2023oasis1", "jastreboff2022", "wharton2025attain1", "pisunyer2015", "wu2025", "rodriguez2025", "wilding2022ext", "aronne2024", "medipreis2026"]
 related: ["abnehmpille-absetzen", "wegovy-absetzen", "mounjaro-absetzen"]
@@ -77,7 +78,7 @@ Lesart: Bei gleichem Wirkstoff liegen Tablette und Spritze nahe beieinander. Die
 Für die Zeit danach ist das der wichtigste Punkt: Tablette und Spritze mit Semaglutid haben dieselbe Auswaschphase. Dass die Tablette täglich genommen wird, verkürzt sie nicht. Wer die Tablette absetzt, hat also denselben Zeitplan wie nach der Spritze: zwei ruhige Wochen, dann kehrt der Appetit zurück, und ab etwa Woche 8 wird die Zunahme in Studien messbar.<sup><a href="#fn-wu2025">15</a></sup>
 
 <figure class="my-8">
-  <img src="/grafiken/halbwertszeiten-praeparate.png" alt="Balkendiagramm der Halbwertszeiten: Semaglutid etwa eine Woche, weitgehend abgebaut nach etwa fünf Wochen; Tirzepatid etwa fünf Tage, abgebaut nach etwa 25 Tagen; Liraglutid etwa 13 Stunden, abgebaut nach etwa drei Tagen. Faustregel: fünf Halbwertszeiten." width="1200" height="675" loading="lazy" class="w-full rounded-xl2 border border-line bg-white" />
+  <img src="/grafiken/halbwertszeiten-praeparate.png" alt="Balkendiagramm der Halbwertszeiten: Semaglutid etwa eine Woche, weitgehend abgebaut nach etwa fünf Wochen und laut Fachinformation bis etwa sieben Wochen nachweisbar; Tirzepatid etwa fünf Tage, abgebaut nach etwa 25 Tagen; Liraglutid etwa 13 Stunden, abgebaut nach etwa drei Tagen. Faustregel: fünf Halbwertszeiten." width="1200" height="675" loading="lazy" class="w-full rounded-xl2 border border-line bg-white" />
   <figcaption class="mt-2 text-sm text-ink-3">Halbwertszeiten laut Fachinformation und die Faustregel „fünf Halbwertszeiten“. Grafik: Nach der Spritze, frei verwendbar mit Quellenangabe.</figcaption>
 </figure>
 

diff --git a/src/content/wissen/mounjaro-absetzen.md b/src/content/wissen/mounjaro-absetzen.md
@@ -6,6 +6,7 @@ category: "Präparate"
 image: /grafiken/halbwertszeiten-praeparate.png
 order: 9
 pubDate: 2026-09-30
+updatedDate: 2026-10-01
 keywords: ["mounjaro absetzen", "mounjaro absetzen gewicht", "mounjaro absetzen jojo", "mounjaro absetzen was passiert", "tirzepatid absetzen", "mounjaro halbwertszeit", "mounjaro ausschleichen"]
 sources: ["fachinfoMounjaro", "jastreboff2022", "aronne2024", "aronne2025surmount5", "wu2025", "jensen2024", "leidy2015", "who2020"]
 related: ["abnehmspritze-absetzen", "wegovy-absetzen", "gewicht-halten-nach-abnehmspritze"]
@@ -54,7 +55,7 @@ Die Studie zum Absetzen von Tirzepatid heißt SURMOUNT-4.<sup><a href="#fn-aronn
 Zwei Dinge daran sind wichtig. Erstens: Ein Jahr nach dem Absetzen lag das Gewicht im Mittel noch knapp 10 % unter dem Start. Der Jojo-Effekt ist real, aber er frisst nicht alles auf. Zweitens: Die Streuung war groß. Ein Teil der Placebo-Gruppe hielt den Verlust weitgehend, ein Teil nahm fast alles wieder zu. Eine Meta-Analyse über mehrere Adipositas-Medikamente zeigt, dass die Zunahme etwa ab Woche 8 messbar wird und bis etwa Woche 20 anhält.<sup><a href="#fn-wu2025">5</a></sup> Bei Tirzepatid mit seiner kürzeren Halbwertszeit ist ein früherer Beginn plausibel.
 
 <figure class="my-8">
-  <img src="/grafiken/halbwertszeiten-praeparate.png" alt="Balkendiagramm der Halbwertszeiten: Semaglutid etwa eine Woche, weitgehend abgebaut nach etwa fünf Wochen; Tirzepatid etwa fünf Tage, abgebaut nach etwa 25 Tagen; Liraglutid etwa 13 Stunden, abgebaut nach etwa drei Tagen. Faustregel: fünf Halbwertszeiten." width="1200" height="675" loading="lazy" class="w-full rounded-xl2 border border-line bg-white" />
+  <img src="/grafiken/halbwertszeiten-praeparate.png" alt="Balkendiagramm der Halbwertszeiten: Semaglutid etwa eine Woche, weitgehend abgebaut nach etwa fünf Wochen und laut Fachinformation bis etwa sieben Wochen nachweisbar; Tirzepatid etwa fünf Tage, abgebaut nach etwa 25 Tagen; Liraglutid etwa 13 Stunden, abgebaut nach etwa drei Tagen. Faustregel: fünf Halbwertszeiten." width="1200" height="675" loading="lazy" class="w-full rounded-xl2 border border-line bg-white" />
   <figcaption class="mt-2 text-sm text-ink-3">Warum Tirzepatid schneller weg ist als Semaglutid: Halbwertszeiten laut Fachinformation und die Faustregel „fünf Halbwertszeiten“. Grafik: Nach der Spritze, frei verwendbar mit Quellenangabe.</figcaption>
 </figure>
 

diff --git a/src/content/wissen/gewicht-halten-nach-abnehmspritze.md b/src/content/wissen/gewicht-halten-nach-abnehmspritze.md
@@ -6,6 +6,7 @@ category: "Gewicht halten"
 image: /grafiken/training-s-lite.png
 order: 6
 pubDate: 2026-09-30
+updatedDate: 2026-10-01
 keywords: ["nach abnehmspritze gewicht halten", "abnehmspritze absetzen gewicht halten", "abnehmspritze danach", "gewicht halten nach wegovy", "nach ozempic gewicht halten", "abnehmspritze absetzen plan"]
 sources: ["wu2025", "jensen2024", "leidy2015", "who2020", "sumithran2011", "dgeBallaststoffe", "wilding2022ext"]
 related: ["abnehmspritze-absetzen", "jojo-effekt-abnehmspritze", "protein-abnehmspritze"]
@@ -34,8 +35,8 @@ Der Plan verhindert den Jojo-Effekt nicht. Das kann kein Plan und kein Produkt. 
 Am besten startet der Plan **vor** der letzten Dosis, während der Appetit noch gedämpft ist. Wer schon abgesetzt hat, startet heute.
 
 <figure class="my-8">
-  <img src="/grafiken/training-s-lite.png" alt="Balkendiagramm aus der S-LiTE-Nachbeobachtung: Teilnehmende mit Trainingsprogramm hielten ein Jahr nach Therapieende Gewicht und Körperzusammensetzung. Nach Liraglutid allein lag die Zunahme 6,0 Kilogramm höher als nach Training." width="1200" height="675" loading="lazy" class="w-full rounded-xl2 border border-line bg-white" />
-  <figcaption class="mt-2 text-sm text-ink-3">Der Grund für Regel eins: In der S-LiTE-Nachbeobachtung hielten Teilnehmende mit Trainingsprogramm ihr Gewicht ein Jahr nach Therapieende. Grafik: Nach der Spritze, frei verwendbar mit Quellenangabe.</figcaption>
+  <img src="/grafiken/training-s-lite.png" alt="Balkendiagramm aus der S-LiTE-Nachbeobachtung: Im Jahr nach Therapieende nahmen Teilnehmende nach Liraglutid allein 6,0 Kilogramm mehr zu als nach dem Trainingsprogramm (95-Prozent-Konfidenzintervall 2,1 bis 10,0) und 2,5 Kilogramm mehr als nach Training plus Liraglutid (−1,5 bis 6,5, nicht signifikant). Nach Training plus Liraglutid blieben Gewichtsverlust und Fettabbau erhalten." width="1200" height="675" loading="lazy" class="w-full rounded-xl2 border border-line bg-white" />
+  <figcaption class="mt-2 text-sm text-ink-3">Der Grund für Regel eins: In der S-LiTE-Nachbeobachtung nahmen Teilnehmende nach Liraglutid allein im Jahr nach Therapieende 6,0 kg mehr zu als nach dem Trainingsprogramm. Grafik: Nach der Spritze, frei verwendbar mit Quellenangabe.</figcaption>
 </figure>
 
 ## Die drei Regeln, die den ganzen Plan tragen

diff --git a/src/content/wissen/haarausfall-abnehmspritze.md b/src/content/wissen/haarausfall-abnehmspritze.md
@@ -49,7 +49,7 @@ In Einzelfällen wird Haarausfall unter der Abnehmspritze berichtet. Ob dann das
 Die Verzögerung erklärt, warum der Haarausfall oft erst auffällt, wenn die Abnahme schon langsamer geworden ist oder die Spritze schon abgesetzt wurde. Und sie erklärt den zweiten Fall: Wer nach dem Absetzen schnell wieder zunimmt und dann mit einer Crash-Diät gegensteuert, setzt einen neuen Auslöser. Eine Haltephase ohne große Gewichtsschwankungen ist deshalb auch für die Haare die beste Strategie; wie sie aussieht, steht unter [Abnehmspritze absetzen](/wissen/abnehmspritze-absetzen/).
 
 <figure class="my-8">
-  <img src="/grafiken/haarausfall-zeitverlauf.png" alt="Zeitachse des telogenen Effluviums: Nach schnellem Gewichtsverlust wechseln viele Haare in die Ruhephase, zwei bis drei Monate später beginnt diffuser Haarausfall, der in der Regel innerhalb von etwa sechs Monaten abklingt; danach wachsen die Haare nach. Beeinflussbar sind Protein, Eisenwert, Zink und Biotin bei Lücke; länger als sechs Monate, fleckig oder mit Müdigkeit ärztlich abklären." width="1200" height="675" loading="lazy" class="w-full rounded-xl2 border border-line bg-white" />
+  <img src="/grafiken/haarausfall-zeitverlauf.png" alt="Zeitachse des telogenen Effluviums über zwölf Monate: Nach schnellem Gewichtsverlust wechseln viele Haare in die Ruhephase, zwei bis drei Monate später beginnt diffuser Haarausfall, der meist innerhalb von etwa sechs Monaten nach Beginn abklingt, wenn der Auslöser weggefallen ist; danach wachsen die Haare nach. Beeinflussbar sind Protein, Eisenwert, Zink und Biotin bei Lücke; länger als sechs Monate, fleckig oder mit Müdigkeit und Frieren ärztlich abklären." width="1200" height="675" loading="lazy" class="w-full rounded-xl2 border border-line bg-white" />
   <figcaption class="mt-2 text-sm text-ink-3">Der typische Verlauf des telogenen Effluviums in Monaten nach dem Auslöser.<sup><a href="#fn-malkud2015">1</a></sup> Grafik: Nach der Spritze, frei verwendbar mit Quellenangabe.</figcaption>
 </figure>
 

diff --git a/src/content/wissen/krafttraining-nach-abnehmspritze.md b/src/content/wissen/krafttraining-nach-abnehmspritze.md
@@ -37,8 +37,8 @@ Drei Befunde, die den Unterschied ausmachen:
 Spazierengehen, Radfahren und Schwimmen sind gut für Herz und Kopf. Sie ersetzen aber nicht den Reiz, den Muskeln brauchen, um zu bleiben.
 
 <figure class="my-8">
-  <img src="/grafiken/training-s-lite.png" alt="Balkendiagramm aus der S-LiTE-Nachbeobachtung: Teilnehmende mit Trainingsprogramm hielten ein Jahr nach Therapieende Gewicht und Körperzusammensetzung. Nach Liraglutid allein lag die Zunahme 6,0 Kilogramm höher als nach Training." width="1200" height="675" loading="lazy" class="w-full rounded-xl2 border border-line bg-white" />
-  <figcaption class="mt-2 text-sm text-ink-3">Training entscheidet, was nach dem Absetzen bleibt: S-LiTE-Nachbeobachtung ein Jahr nach Therapieende.<sup><a href="#fn-jensen2024">1</a></sup> Grafik: Nach der Spritze, frei verwendbar mit Quellenangabe.</figcaption>
+  <img src="/grafiken/training-s-lite.png" alt="Balkendiagramm aus der S-LiTE-Nachbeobachtung: Im Jahr nach Therapieende nahmen Teilnehmende nach Liraglutid allein 6,0 Kilogramm mehr zu als nach dem Trainingsprogramm (95-Prozent-Konfidenzintervall 2,1 bis 10,0) und 2,5 Kilogramm mehr als nach Training plus Liraglutid (−1,5 bis 6,5, nicht signifikant). Nach Training plus Liraglutid blieben Gewichtsverlust und Fettabbau erhalten." width="1200" height="675" loading="lazy" class="w-full rounded-xl2 border border-line bg-white" />
+  <figcaption class="mt-2 text-sm text-ink-3">Training vor dem Absetzen: In der S-LiTE-Nachbeobachtung nahmen Teilnehmende nach Liraglutid allein im Jahr nach Therapieende 6,0 kg mehr zu als nach dem Trainingsprogramm.<sup><a href="#fn-jensen2024">1</a></sup> Grafik: Nach der Spritze, frei verwendbar mit Quellenangabe.</figcaption>
 </figure>
 
 ## Die drei Prinzipien
